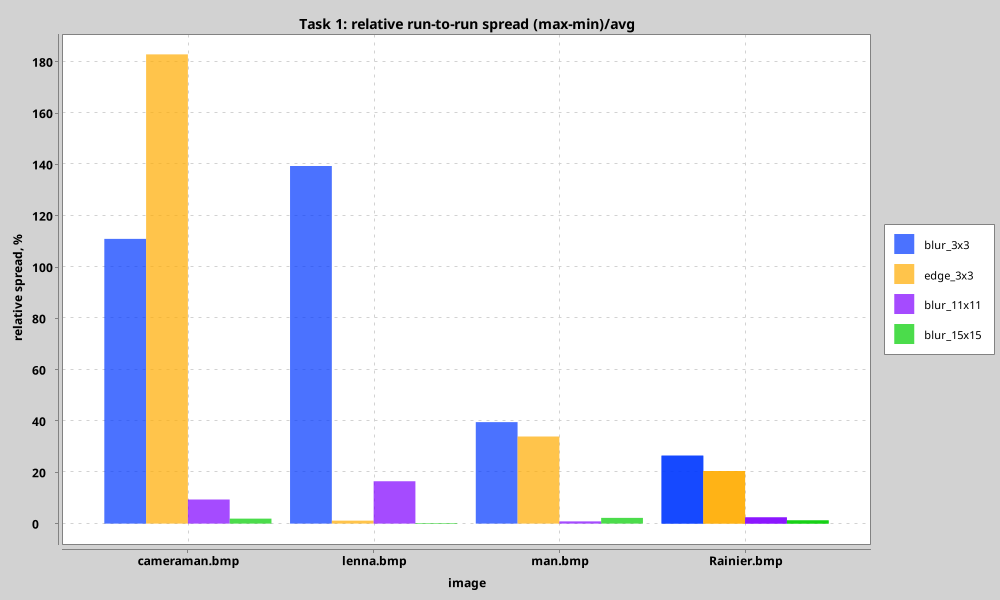
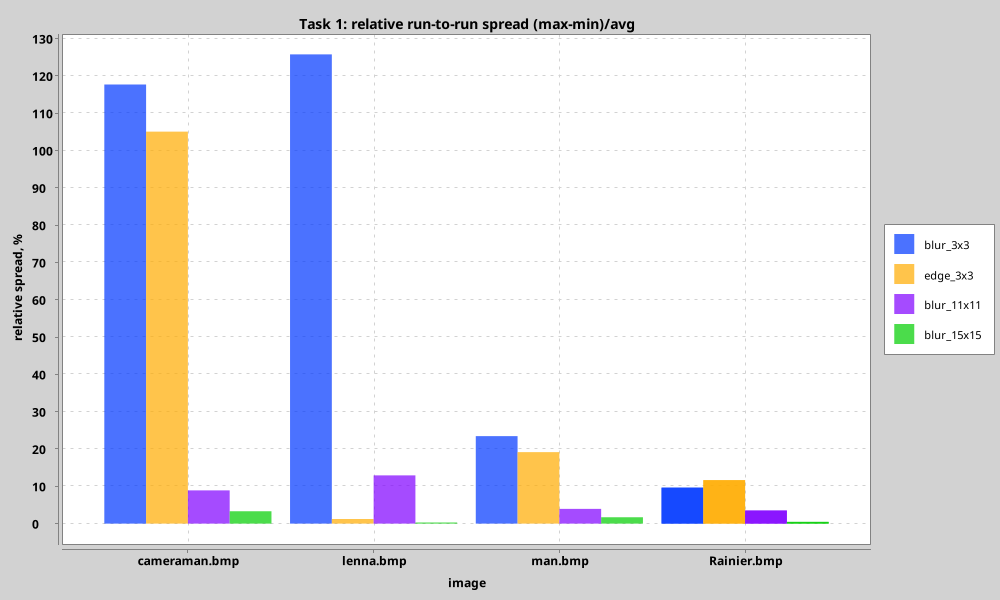
data: refresh task1 benchmark from quiet-machine run; docs: self-contained analysis
- regenerate benchmark_task1.csv and task1 charts with daemons stopped
- task1 analysis now reads as a standalone report: no references to prior
  implementations or older benchmark designs; table/claims updated to fresh data

diff --git a/analysis/task1.md b/analysis/task1.md
@@ -27,11 +27,9 @@ Accumulation order per pixel is identical to the naive formulation, so results a
 bit-for-bit equal and the serial implementation stays a valid reference for the
 parallel ones (checked in tests).
 
-Measured single-core throughput: **~2.4 Gtap/s ≈ 4.8 GFLOPS** (blur 15×15 on man.bmp:
-96.8 ms for 1.05 Mpx × 225 taps). The previous implementation of the same math — modulo
-wrap-around and reflected-kernel indexing recomputed inside the inner loop — measured
-363 ms for blur 11×11 on man.bmp on this machine; the optimized core does it in 52 ms
-(**~7×**), so all later speedups measure parallelism, not implementation waste.
+Measured single-core throughput: **~2.4 Gtap/s ≈ 4.9 GFLOPS** (blur 15×15 on man.bmp:
+97.0 ms for 1.05 Mpx × 225 taps). This is the per-thread ceiling that Task 2's
+thread-scaling measurements are compared against.
 
 ## Benchmark design — minimizing OS noise
 
@@ -51,8 +49,9 @@ irrelevant, each measured configuration must do enough useful work:
 
 The spread chart shows the design working: 3×3 kernels on small images still have
 tens–hundreds of percent relative spread (they are *not* used for scaling conclusions —
-they only take ~1 ms of useful work), while every heavy configuration (≥ 50 ms of work)
-settles at < 3% and the 1024²+15×15 / 1920×1080+15×15 cases at ~1%.
+they only take ~1 ms of useful work), while every configuration doing ≥ 50 ms of work
+varies by < 4%, and the two heaviest ones (1024² and 1920×1080 with the 15×15 kernel)
+by ~2% and ~0.5%.
 
 ## Raw Results
 
@@ -61,22 +60,22 @@ runs are not quantization artifacts.
 
 | Image | Size | Kernel | Avg (ms) | Min (ms) | Max (ms) |
 |-------|------|--------|----------|----------|----------|
-| cameraman | 256×256 | blur 3×3 | 1.02 | 0.59 | 1.73 |
-| cameraman | 256×256 | edge 3×3 | 0.93 | 0.56 | 2.26 |
-| cameraman | 256×256 | blur 11×11 | 3.83 | 3.72 | 4.08 |
-| cameraman | 256×256 | blur 15×15 | 7.04 | 6.98 | 7.12 |
-| lenna | 512×512 | blur 3×3 | 2.69 | 1.83 | 5.58 |
-| lenna | 512×512 | edge 3×3 | 1.80 | 1.79 | 1.81 |
-| lenna | 512×512 | blur 11×11 | 14.05 | 13.55 | 15.87 |
-| lenna | 512×512 | blur 15×15 | 25.74 | 25.69 | 25.76 |
-| man | 1024×1024 | blur 3×3 | 7.93 | 7.25 | 10.38 |
-| man | 1024×1024 | edge 3×3 | 7.80 | 7.26 | 9.91 |
-| man | 1024×1024 | blur 11×11 | 52.11 | 51.88 | 52.33 |
-| man | 1024×1024 | blur 15×15 | 96.33 | 95.28 | 97.44 |
-| Rainier | 1920×1080 | blur 3×3 | 15.30 | 14.37 | 18.42 |
-| Rainier | 1920×1080 | edge 3×3 | 15.30 | 14.48 | 17.62 |
-| Rainier | 1920×1080 | blur 11×11 | 101.76 | 101.03 | 103.51 |
-| Rainier | 1920×1080 | blur 15×15 | 185.96 | 184.25 | 186.56 |
+| cameraman | 256×256 | blur 3×3 | 1.30 | 0.85 | 2.38 |
+| cameraman | 256×256 | edge 3×3 | 1.07 | 0.84 | 1.96 |
+| cameraman | 256×256 | blur 11×11 | 3.83 | 3.71 | 4.05 |
+| cameraman | 256×256 | blur 15×15 | 7.10 | 7.03 | 7.27 |
+| lenna | 512×512 | blur 3×3 | 2.63 | 1.85 | 5.16 |
+| lenna | 512×512 | edge 3×3 | 1.79 | 1.77 | 1.80 |
+| lenna | 512×512 | blur 11×11 | 13.98 | 13.55 | 15.36 |
+| lenna | 512×512 | blur 15×15 | 25.36 | 25.33 | 25.41 |
+| man | 1024×1024 | blur 3×3 | 7.93 | 7.23 | 9.09 |
+| man | 1024×1024 | edge 3×3 | 7.54 | 7.14 | 8.59 |
+| man | 1024×1024 | blur 11×11 | 52.51 | 51.89 | 53.96 |
+| man | 1024×1024 | blur 15×15 | 97.02 | 96.60 | 98.25 |
+| Rainier | 1920×1080 | blur 3×3 | 15.02 | 14.54 | 15.99 |
+| Rainier | 1920×1080 | edge 3×3 | 14.77 | 14.32 | 16.04 |
+| Rainier | 1920×1080 | blur 11×11 | 103.13 | 102.02 | 105.64 |
+| Rainier | 1920×1080 | blur 15×15 | 186.61 | 186.21 | 187.06 |
 
 Full data: [`docs/benchmark_task1.csv`](../docs/benchmark_task1.csv)
 (charts are regenerated from this table by the benchmark itself into `docs/charts/`).
@@ -94,8 +93,9 @@ Straight lines on log-log axes: time grows linearly with pixel count for every k
 
 ![ns per pixel per tap](../docs/charts/task1_ns_per_tap.png)
 
-Time per (pixel × tap) is ~0.4–1.1 ns and drops for larger kernels: one tap costs the
-same everywhere, only the small-kernel cases pay the fixed per-pixel loop overhead.
+Time per (pixel × tap) collapses to a stable ~0.4 ns for all kernels from 11×11 up,
+while the 3×3 cases pay 0.8–2.2 ns: one tap costs the same everywhere, only the
+small-kernel runs are dominated by the fixed per-pixel loop overhead.
 This is the evidence that the hot loop is running at constant hardware throughput
 (~2.4 Gtap/s single-core), i.e. measurements above are throughput, not noise.
 
@@ -114,5 +114,5 @@ Downside: introduces a discontinuity at image edges for natural images (visible 
 The serial implementation serves as the **reference** for all parallel strategies:
 any parallel result must match it bit-for-bit (tested). Its ~2.4 Gtap/s per core sets the
 expected ceiling for Task 2 on the 14-core Ultra 5 225H; the Task 2 benchmark therefore
-sweeps the number of OS threads the convolution may use (1…14) instead of the coroutine
-count, and measures how close chunked parallelism gets to `threads × serial`.
+sweeps the number of OS threads the convolution may use (1…14) and measures how close
+chunked parallelism gets to `threads × serial`.
